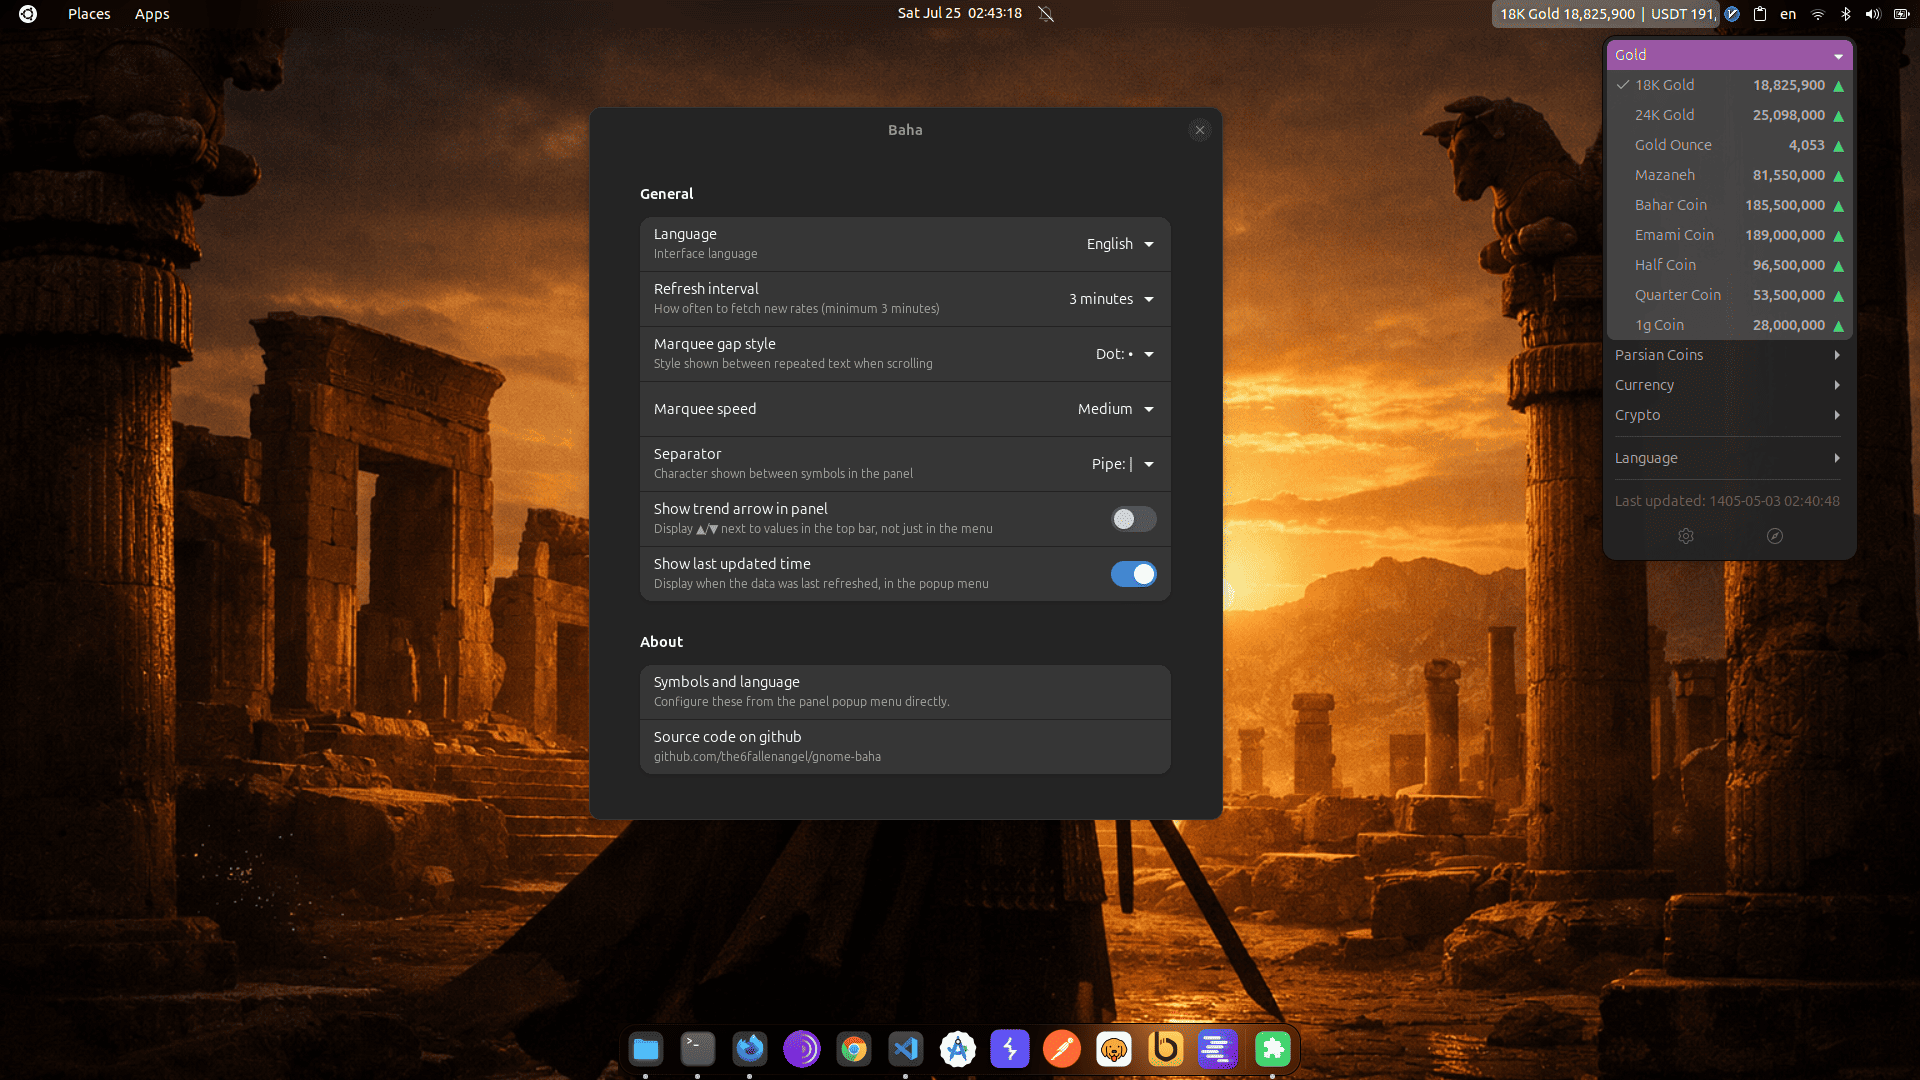
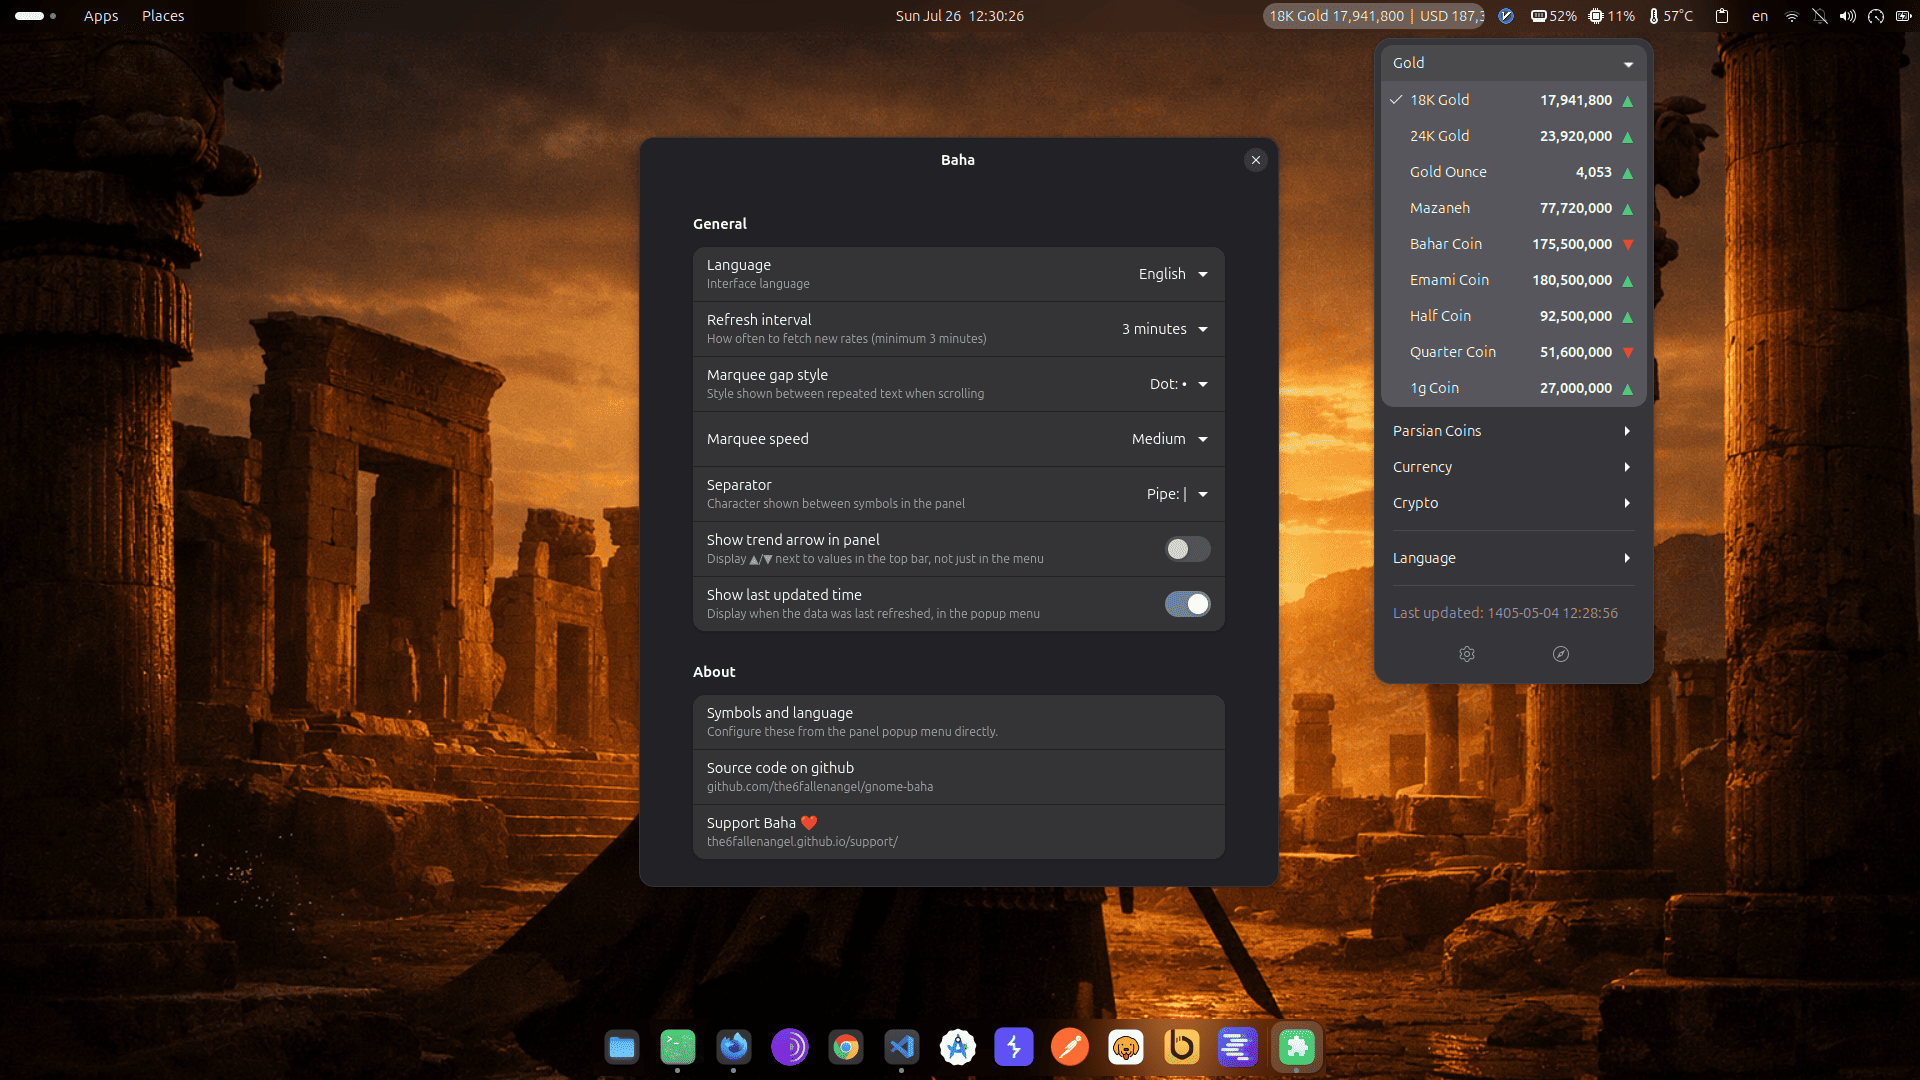
fix(extension): add GNOME Shell support until version 50

diff --git a/constants.js b/constants.js
@@ -103,6 +103,7 @@ export const PREFS_STRINGS = {
     aboutRow: "Symbols and language",
     aboutSubtitle: "Configure these from the panel popup menu directly.",
     sourceRow: "Source code on github",
+    supportRow: "Support Baha ❤",
     languageTitle: "Language",
     languageSubtitle: "Interface language",
     slow: "Slow",
@@ -144,6 +145,7 @@ export const PREFS_STRINGS = {
     aboutRow: "نمادها و زبان",
     aboutSubtitle: "مستقیماً از منوی پاپآپ پنل تنظیم کنید.",
     sourceRow: "کد منبع در گیتهاب",
+    supportRow: "حمایت از بها ❤",
     languageTitle: "زبان",
     languageSubtitle: "زبان رابط کاربری",
     slow: "آهسته",

diff --git a/prefs.js b/prefs.js
@@ -119,6 +119,19 @@ export default class BahaPreferences extends ExtensionPreferences {
       );
     });
     aboutGroup.add(sourceRow);
+
+    const supportRow = new Adw.ActionRow({
+      title: t.supportRow,
+      subtitle: "the6fallenangel.github.io/support/",
+      activatable: true,
+    });
+    supportRow.connect("activated", () => {
+      Gio.AppInfo.launch_default_for_uri(
+        "https://the6fallenangel.github.io/support/",
+        null,
+      );
+    });
+    aboutGroup.add(supportRow);
   }
 
   _buildLanguageSelector(settings, currentLang) {

diff --git a/README.md b/README.md
@@ -8,7 +8,7 @@
 ### Live gold, currency & crypto rates — right in your GNOME top bar
 
 [![License: GPL v3](https://img.shields.io/badge/License-GPLv3-blue.svg)](LICENSE)
-![GNOME Shell](https://img.shields.io/badge/GNOME%20Shell-45%20--%2048-4A86CF?logo=gnome&logoColor=white)
+![GNOME Shell](https://img.shields.io/badge/GNOME%20Shell-45%20--%2050-4A86CF?logo=gnome&logoColor=white)
 ![Languages](https://img.shields.io/badge/Language-English%20%7C%20Persian-brightgreen)
 
 **No ads. No tracking. No nonsense. Just the numbers you actually care about.**
@@ -104,6 +104,14 @@ Fine-tune Baha to match your taste:
 ## 🤝 Contributing
 
 Contributions, bug reports, and feature suggestions are always welcome! Feel free to open an issue or submit a pull request.
+
+## ❤ Support Baha
+
+If you enjoy using Baha and want to support its continued development, you can help by making a donation.
+
+Your support helps me keep improving Baha, adding new features, and maintaining the project.
+
+[❤ Support Baha](https://the6fallenangel.github.io/support/)
 
 ## 📄 License
 
@@ -217,6 +225,14 @@ gnome-extensions enable gnome-baha@the6fallenangel.github.io
 ## 🤝 مشارکت
 
 همراهی شما باعث بهتر شدن **بها** میشه. اگه باگی پیدا کردید، پیشنهادی برای بهبود دارید یا ویژگی جدیدی نیازه اضافه کنید، خوشحال میشم اون رو از طریق یک **Issue** یا **Pull Request** با من به اشتراک بزارید.
+
+## ❤ حمایت از بها
+
+اگه از **بها** استفاده میکنید و دوست دارید به ادامه توسعه آن کمک کنید، میتونید از پروژه حمایت مالی کنید.
+
+حمایت شما کمک میکنه تا ویژگیهای جدید اضافه شه، پروژه بهبود پیدا کنه و توسعه آن ادامه داشته باشه.
+
+[❤ حمایت از بها](https://the6fallenangel.github.io/support/)
 
 ## 📄 لایسنس
 
